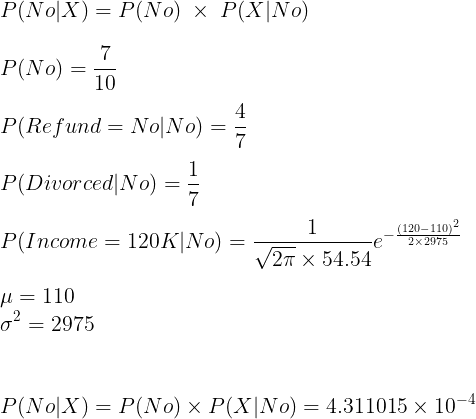
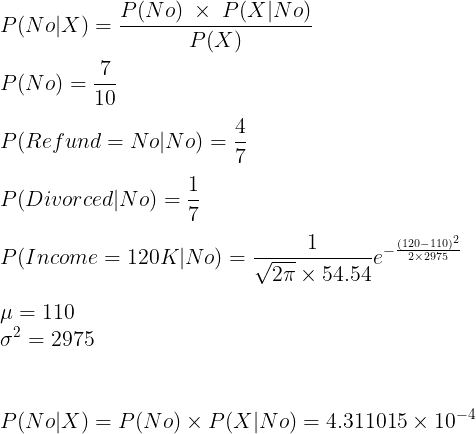
commit

diff --git a/DataMining/(5)Naive bayesian/README.md b/DataMining/(5)Naive bayesian/README.md
@@ -211,6 +211,7 @@ P(X|No) = P(Refund = No|No)P(Divorced|No)P(Income=120K|No)
 <br>
 <br>
 
+No target class에 대해서도, 정확한 확률값보다는 확률의 크기를 비교할것이므로 P(X) 계산 X.
 
 ![image](./image/sol4.png)
 
@@ -218,6 +219,54 @@ P(X|No) = P(Refund = No|No)P(Divorced|No)P(Income=120K|No)
 ***
 
 ## Rapid Miner를 이용한 실습
+
+Rapidminer에서 제공하는 golf sample 데이터를 이용하여 Naive Bayesian model을 만들고 test data로 golf를 하러 갈 수 있는지 예측해봅니다.
+
+* Data preparation
+
+![image](./image/1.JPG)
+
+![image](./image/1-1.JPG)
+
+![image](./image/1-2.JPG)
+
+각각 training dataset과 생성된 model을 통해 예측할 test dataset입니다.
+
+한개의 categorical class label과 2개의 categorical features, 그리고 2개의 continuous features를 가지고 있습니다.
+
+<br>
+<br>
+
+* Modeling
+
+![image](./image/2.JPG)
+
+![image](./image/2-1.JPG)
+
+modeling을 하기위해 Naive Bayes process를 추가하고 training data의 link를 이어줍니다.
+
+이 때, laplace correction을 사용합니다. laplace correction은 주어진 query(예측하고자하는 unknown data)가 가지고 있는 attribute에 대해서 특정 attribute의
+ value를 가지지 않는 case가 발생할 수 있습니다. 이럴 경우, 해당 확률값은 0이 되고 조건부 확률을 계산할 때 확률값이 0인 term이 들어가게 되면 전체 확률이 0이 되어 유의미한 예측 모델이
+  아니게 됩니다. 따라서 이런 case를 방지하기 위해 각각의 조건부 확률 term을 계산할 때 분자와 분모에 모두 1을 더하는 방법입니다.
+
+<br>
+<br>
+
+* Apply modeling and evaluation
+
+![image](./image/3.JPG)
+
+![image](./image/4.JPG)
+
+![image](./image/5.JPG)
+
+![image](./image/6.JPG)
+
+![image](./image/7.JPG)
+
+Data preparation단락에서 보았듯이, temperature feature와 humadity feature은 continuous한 값을 가지므로 가우스 확률 분포를 이용하여 확률값을 계산하게 됩니다.
+
+마지막은 각각의 target == no, target == yes 일때의 attribute별 조건부 확률과 continuou feature의 확률 분포함수를 구할 때 필요한 평균과 표준편차입니다.
 
 ## 출처 및 참고문헌
 
